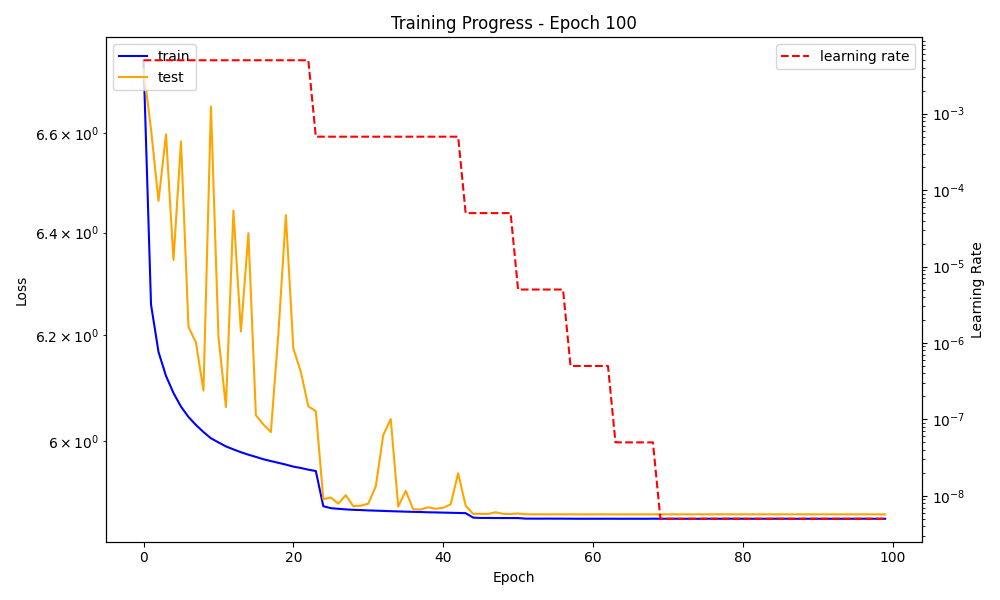
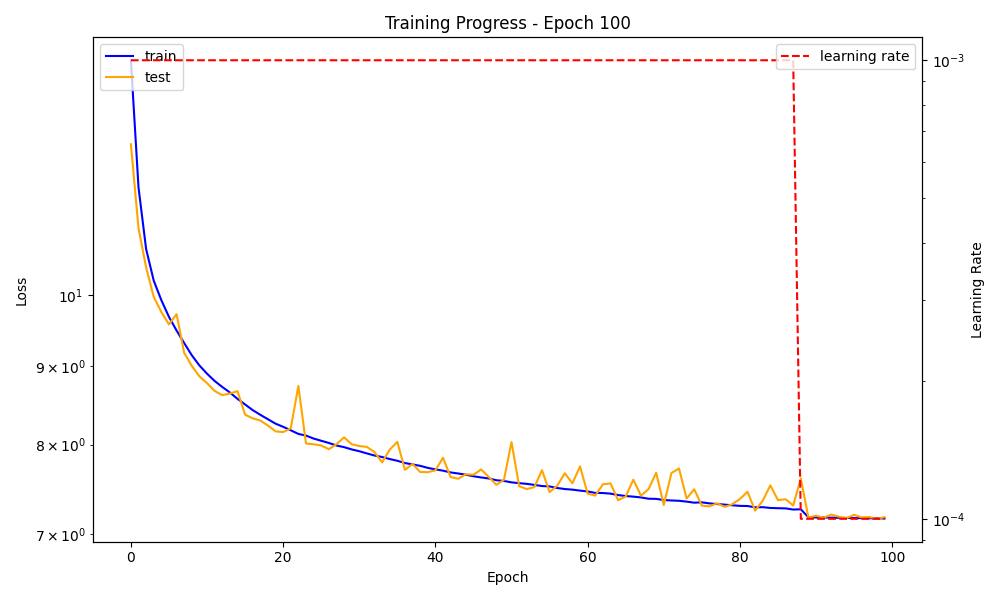
add conv net

diff --git a/supervised_learning/src/supervised_learning/models/cnn.py b/supervised_learning/src/supervised_learning/models/cnn.py
@@ -1,0 +1,81 @@
+import torch
+from rust_reversi import Board
+from supervised_learning.models import ReversiNet
+
+DEVICE = torch.device("cuda" if torch.cuda.is_available() else "cpu")
+
+class ConvNet(ReversiNet):
+    def __init__(
+            self,
+            c1: int = 16,
+            c2: int = 16,
+            c3: int = 16,
+        ):
+        super(ConvNet, self).__init__()
+        # 2x8x8 -> c1x6x6
+        self.conv1 = torch.nn.Conv2d(
+            in_channels=2,
+            out_channels=c1,
+            kernel_size=3,
+            padding=0,
+        )
+        # c1x6x6 -> c2x4x4
+        self.conv2 = torch.nn.Conv2d(
+            in_channels=c1,
+            out_channels=c2,
+            kernel_size=3,
+            padding=0,
+        )
+        # c2x4x4 -> c3x2x2
+        self.conv3 = torch.nn.Conv2d(
+            in_channels=c2,
+            out_channels=c3,
+            kernel_size=3,
+            padding=0,
+        )
+        self.fc1_input_size = c3 * 2 * 2
+        self.fc1 = torch.nn.Linear(self.fc1_input_size, 1)
+        torch.nn.init.kaiming_normal_(self.conv1.weight)
+        torch.nn.init.kaiming_normal_(self.conv2.weight)
+        torch.nn.init.kaiming_normal_(self.conv3.weight)
+        torch.nn.init.kaiming_normal_(self.fc1.weight)
+        torch.nn.init.zeros_(self.conv1.bias)
+        torch.nn.init.zeros_(self.conv2.bias)
+        torch.nn.init.zeros_(self.conv3.bias)
+
+    def forward(self, x) -> torch.Tensor:
+        x = self.conv1(x)
+        x = torch.nn.functional.relu(x)
+        x = self.conv2(x)
+        x = torch.nn.functional.relu(x)
+        x = self.conv3(x)
+        x = torch.nn.functional.relu(x)
+        x = x.view(-1, self.fc1_input_size)
+        x = self.fc1(x)
+        return x
+
+    @staticmethod
+    def board_to_input(board: Board) -> torch.Tensor:
+        board_matrix = board.get_board_matrix()[0:2]
+        input_tensor = torch.tensor(board_matrix, dtype=torch.float32)
+        return input_tensor
+
+    def get_action(self, board: Board) -> int:
+        legal_actions = board.get_legal_moves_vec()
+        next_boards = []
+        for action in legal_actions:
+            tmp_board = board.clone()
+            tmp_board.do_move(action)
+            next_boards.append(tmp_board)
+        board_tensors = torch.stack([self.board_to_input(tmp_board) for tmp_board in next_boards])
+        board_tensors = board_tensors.to(DEVICE)
+        with torch.no_grad():
+            values = self.forward(board_tensors)
+        values = values.view(-1)
+        values = -values
+        _best_value, best_index = torch.max(values, 0)
+        best_action = legal_actions[best_index.item()]
+        return best_action
+
+    def save_weights_base64(self) -> str:
+        pass

diff --git a/supervised_learning/src/supervised_learning/__init__.py b/supervised_learning/src/supervised_learning/__init__.py
@@ -18,15 +18,15 @@ LOSS_PLOT_PATH = "loss.png"
 DEVICE = torch.device("cuda" if torch.cuda.is_available() else "cpu")
 MODEL_PATH = "model.pth"
 
-MAX_DATA = int(1e6) * 20
-BATCH_SIZE = 2048
+MAX_DATA = int(1e6) * 1
+BATCH_SIZE = 512
 LR = 1e-3
-WEIGHT_DECAY = 1e-5
+WEIGHT_DECAY = 1e-6
 N_EPOCHS = 100
 HIDDEN_SIZE = 64
 PREPROCESS_WORKERS = 16
 NUM_WORKERS = 4
-DATA_LOADER_UPDATE_PER_EPOCH = 20
+DATA_LOADER_UPDATE_PER_EPOCH = 200
 
 def load_data(verbose: bool) -> List[Tuple[int, int, int]]:
     if verbose:
@@ -85,7 +85,9 @@ def get_dataloaders(verbose=True) -> Tuple[torch.utils.data.DataLoader, torch.ut
     return train_loader, test_loader, int(time_elapsed)
 
 def main() -> None:
-    net = DenseNet(HIDDEN_SIZE)
+    # net = DenseNet(HIDDEN_SIZE)
+    from supervised_learning.models.cnn import ConvNet
+    net = ConvNet()
     net.to(DEVICE)
 
     train_loader, test_loader, get_dataloader_time = get_dataloaders()
@@ -100,7 +102,7 @@ def main() -> None:
     )
 
     criterion = SignAwareMAE(
-        sign_penalty_weight=4.0,
+        sign_penalty_weight=0.0,
     )
 
     train_losses = []

diff --git a/supervised_learning/src/supervised_learning/reversi_dataset.py b/supervised_learning/src/supervised_learning/reversi_dataset.py
@@ -10,10 +10,12 @@ import tqdm
 from typing import List, Tuple
 from rust_reversi import Board, Turn
 from supervised_learning.models.dense import DenseNet
+from supervised_learning.models.cnn import ConvNet
 from multiprocessing import shared_memory
 
 def board_to_input(board: Board) -> np.ndarray:
-    board_tensor = DenseNet.board_to_input(board)
+    # board_tensor = DenseNet.board_to_input(board)
+    board_tensor = ConvNet.board_to_input(board)
     return board_tensor.numpy()
 
 def preprocess_chunk(
